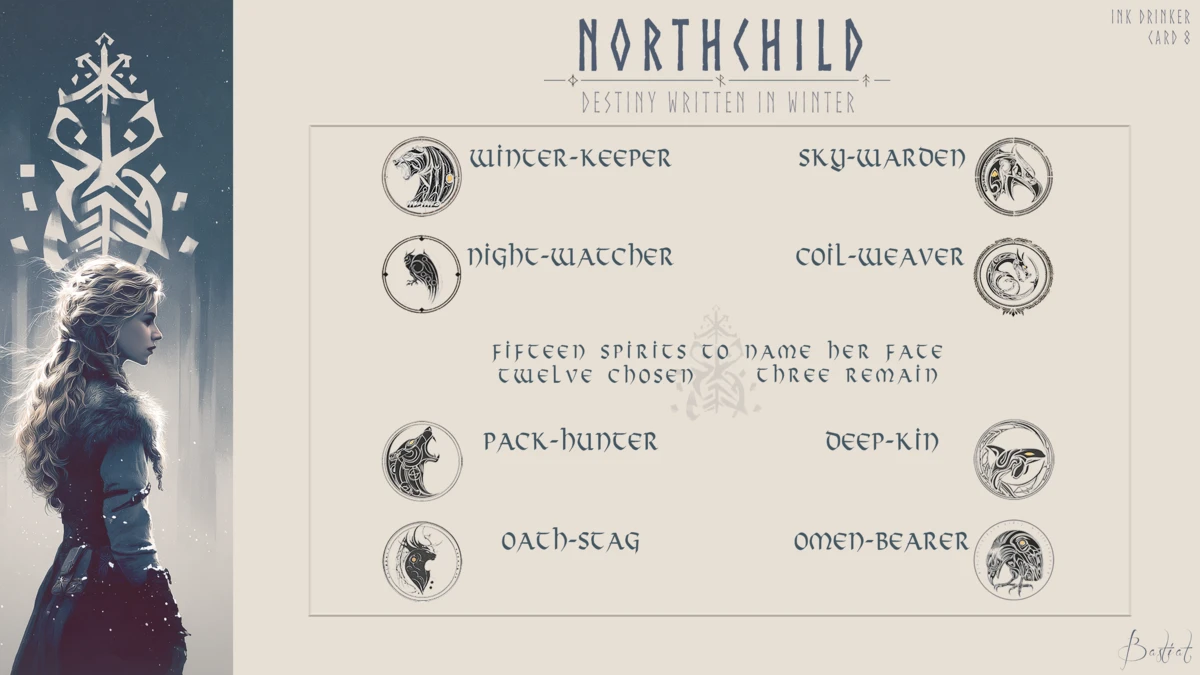
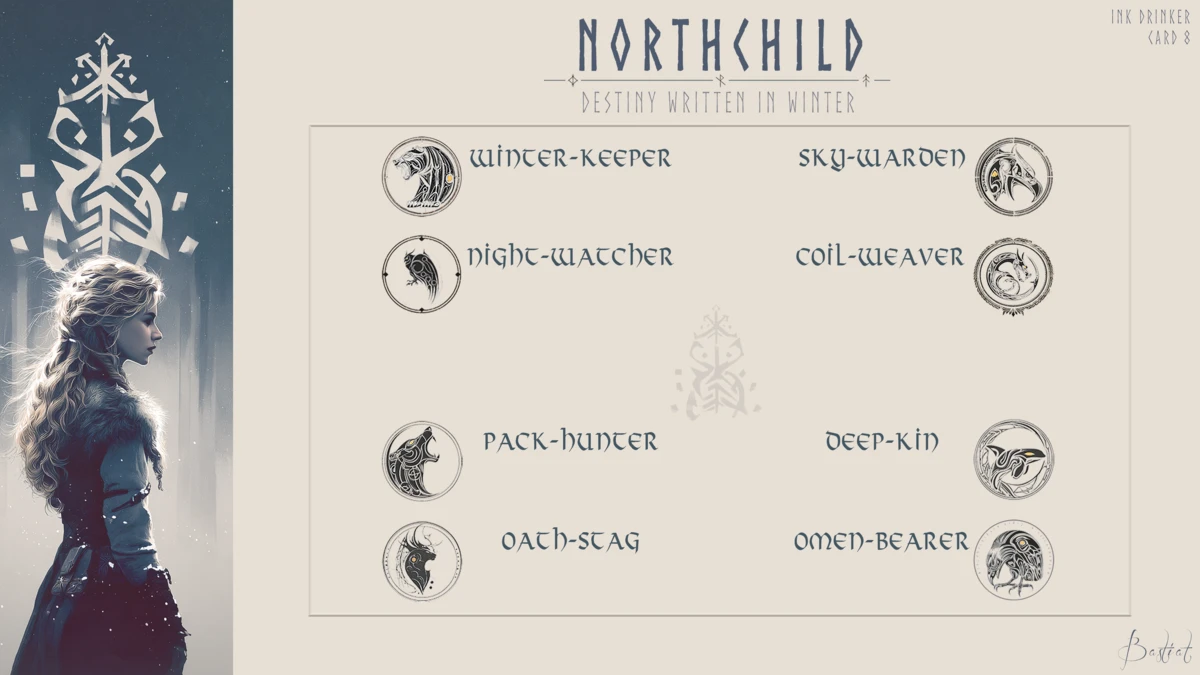
2.0 Both Screen Mechanics Operational

Changed region(s): [[0.4008, 0.4978, 0.7708, 0.5911]]

diff --git a/app/page.tsx b/app/page.tsx
@@ -1,6 +1,6 @@
 "use client";
 
-import { useEffect, useMemo, useState } from "react";
+import { useMemo, useState } from "react";
 import {
   computeNorthchildResult,
   getResultImagePath,
@@ -9,15 +9,11 @@ import {
   type Animals
 } from "./lib/northchildMechanics";
 
+// Layout and logic constants
 const maxPerAnimal = 4;
 const maxTotal = 15;
-
-const runeFile: Record<AnimalKey, string> = {
-  wolf: "wolf", orca: "orca", serpent: "serpent", raven: "raven",
-  owl: "owl", eagle: "eagle", elk: "elk", bear: "bear",
-};
-
-const metaRuneFile = { hf: "highflame", gs: "gravesong" } as const;
+const animalOrder: AnimalKey[] = ["bear", "owl", "serpent", "eagle", "wolf", "orca", "elk", "raven"];
+const numberWords: Record<number, string> = { 0: "None", 1: "One", 2: "Two", 3: "Three", 4: "Four", 5: "Five", 6: "Six", 7: "Seven", 8: "Eight", 9: "Nine", 10: "Ten", 11: "Eleven", 12: "Twelve", 13: "Thirteen", 14: "Fourteen", 15: "Fifteen" };
 
 const layout: Record<AnimalKey, { x: number; y: number }> = {
   wolf: { x: 47.6, y: 69.3 }, raven: { x: 73.5, y: 84.2 }, orca: { x: 73.4, y: 69.5 },
@@ -25,147 +21,125 @@ const layout: Record<AnimalKey, { x: number; y: number }> = {
   owl: { x: 47.6, y: 42.1 }, bear: { x: 47.6, y: 27.5 },
 };
 
-const HF_POS = [ { x: 93.6, y: 22.6 }, { x: 96.1, y: 28.0 }, { x: 97.6, y: 34.0 }, { x: 96.2, y: 39.4 }, { x: 93.7, y: 44.4 } ];
-const GS_POS = [ { x: 86.1, y: 67.1 }, { x: 83.6, y: 72.6 }, { x: 82.2, y: 78.2 }, { x: 83.7, y: 83.9 }, { x: 86.1, y: 89.0 } ];
+// Individually sized and positioned augmentation pips
+const HF_POS = [
+  { x: 32, y: 76.3, size: 34 },
+  { x: 26.95, y: 68.9, size: 40 },
+  { x: 23.71, y: 58.8, size: 46 },
+  { x: 26.5, y: 49.3, size: 56 },
+  { x: 31.25, y: 39.2, size: 80 },
+];
 
-function Pip({ active, rune, size = 30 }: { active: boolean; rune: string; size?: number }) {
+const GS_POS = [
+  { x: 86.8, y: 39.2, size: 34 },
+  { x: 91.25, y: 45.65, size: 40 },
+  { x: 93.96, y: 56.05, size: 46 },
+  { x: 91.75, y: 65.6, size: 56 },
+  { x: 88.1, y: 76.4, size: 80 },
+];
+
+function Pip({ active, rune, size = 28 }: { active: boolean; rune: string; size?: number }) {
   return (
     <div style={{ width: size, height: size, display: "flex", alignItems: "center", justifyContent: "center" }}>
-      <img
-        src={`/ui/runes/${rune}.svg`}
-        alt=""
-        style={{
-          width: "100%", height: "100%",
-          opacity: active ? 0.92 : 0.22,
-          filter: active ? "contrast(120%) brightness(65%)" : "contrast(70%) brightness(120%)",
-          transition: "all 0.15s ease",
-          pointerEvents: "none", userSelect: "none",
-        }}
-      />
+      <img src={`/ui/runes/${rune}.svg`} alt="" style={{ width: "100%", height: "100%", opacity: active ? 0.92 : 0.32, filter: active ? "contrast(120%) brightness(65%)" : "contrast(70%) brightness(120%)", transition: "all 0.15s ease", pointerEvents: "none" }} />
     </div>
   );
 }
 
 export default function Home() {
   const [step, setStep] = useState<1 | 2>(1);
-  const [animals, setAnimals] = useState<Animals>({
-    wolf: 0, orca: 0, serpent: 0, raven: 0, owl: 0, eagle: 0, elk: 0, bear: 0,
-  });
+  const [animals, setAnimals] = useState<Animals>({ wolf: 0, orca: 0, serpent: 0, raven: 0, owl: 0, eagle: 0, elk: 0, bear: 0 });
   const [hfCount, setHfCount] = useState(0);
   const [gsCount, setGsCount] = useState(0);
-  const [isSealed, setIsSealed] = useState(false);
-  const [computedResult, setComputedResult] = useState<NorthchildResult | null>(null);
-  const [resultImgReady, setResultImgReady] = useState(false);
   const [fadePhase, setFadePhase] = useState<"none" | "toBlack" | "showResult">("none");
+  const [computedResult, setComputedResult] = useState<NorthchildResult | null>(null);
 
   const totalAnimalPips = useMemo(() => Object.values(animals).reduce((a, b) => a + b, 0), [animals]);
-  const isAnimalQuotaMet = totalAnimalPips === 15;
+  const toWord = (n: number) => numberWords[n] ?? String(n);
 
-  const increment = (key: AnimalKey) => {
-    if (step !== 1 || totalAnimalPips >= 15 || animals[key] >= 4) return;
-    setAnimals((prev) => ({ ...prev, [key]: prev[key] + 1 }));
-  };
+  const increment = (key: AnimalKey) => { if (step === 1 && totalAnimalPips < 15 && animals[key] < 4) setAnimals(prev => ({ ...prev, [key]: prev[key] + 1 })); };
+  const decrement = (key: AnimalKey) => { if (step === 1 && animals[key] > 0) setAnimals(prev => ({ ...prev, [key]: prev[key] - 1 })); };
 
-  const decrement = (key: AnimalKey) => {
-    if (step !== 1 || animals[key] <= 0) return;
-    setAnimals((prev) => ({ ...prev, [key]: prev[key] - 1 }));
+  const handleStepTransition = () => {
+    if (totalAnimalPips !== 15) return;
+    setFadePhase("toBlack");
+    setTimeout(() => {
+      setStep(2);
+      setTimeout(() => { setFadePhase("none"); }, 100);
+    }, 2200);
   };
 
   const sealFate = () => {
-    if (isSealed) return;
     const result = computeNorthchildResult(animals, hfCount, gsCount);
     setComputedResult(result);
-    setIsSealed(true);
     setFadePhase("toBlack");
-
-    const src = getResultImagePath(result.winner.id, result.variant);
-    const img = new Image();
-    img.src = src;
-    img.onload = () => {
-      setTimeout(() => {
-        setResultImgReady(true);
-        setFadePhase("showResult");
-      }, 2700);
-    };
+    setTimeout(() => { setFadePhase("showResult"); }, 2500);
   };
 
-  const renderRow = (key: AnimalKey) => {
-    const pos = layout[key];
-    return (
+  const renderMetaStack = (kind: "hf" | "gs") => {
+    const coords = kind === "hf" ? HF_POS : GS_POS;
+    const count = kind === "hf" ? hfCount : gsCount;
+    const setCount = kind === "hf" ? setHfCount : setGsCount;
+    const rune = kind === "hf" ? "highflame" : "gravesong";
+
+    return coords.map((p, i) => (
       <div
-        key={key}
-        onClick={() => increment(key)}
-        onContextMenu={(e) => { e.preventDefault(); decrement(key); }}
-        style={{
-          position: "absolute", top: `${pos.y}%`, left: `${pos.x}%`,
-          transform: "translate(-50%, -50%)", display: "flex", gap: 14.2,
-          cursor: step === 1 ? "pointer" : "default", zIndex: 2,
-        }}
+        key={`${kind}-${i}`}
+        onClick={() => setCount(i + 1)}
+        onContextMenu={(e) => { e.preventDefault(); setCount(0); }}
+        style={{ position: "absolute", left: `${p.x}%`, top: `${p.y}%`, transform: "translate(-50%, -50%)", cursor: "pointer", zIndex: 2 }}
       >
-        {[0, 1, 2, 3].map((i) => <Pip key={i} active={i < animals[key]} rune={runeFile[key]} />)}
+        <Pip active={i < count} rune={rune} size={p.size} />
       </div>
-    );
+    ));
   };
 
   return (
-    <div style={{ minHeight: "100vh", display: "grid", placeItems: "center", backgroundColor: "#05070a" }}>
+    <div style={{ minHeight: "100vh", display: "grid", placeItems: "center", backgroundColor: "#05070a", userSelect: "none", WebkitUserSelect: "none" }}>
       <div style={{ position: "relative", width: "1200px", aspectRatio: "16 / 9" }}>
         
-        {/* Background Swaps based on Step */}
-        <img
-          src={step === 1 ? "/ui/northchild1.webp" : "/ui/northchild2.webp"}
-          alt=""
-          style={{ position: "absolute", inset: 0, width: "100%", height: "100%", objectFit: "contain", zIndex: 0 }}
-        />
+        <img src={step === 1 ? "/ui/northchild1.webp" : "/ui/northchild2.webp"} alt="" style={{ position: "absolute", inset: 0, width: "100%", height: "100%", zIndex: 0 }} />
 
         {step === 1 && (
           <>
-            {Object.keys(layout).map((k) => renderRow(k as AnimalKey))}
-            <button
-              onClick={() => setStep(2)}
-              style={{
-                position: "absolute", left: "59.7%", top: "91.8%", transform: "translateX(-50%)",
-                opacity: isAnimalQuotaMet ? 1 : 0.2, pointerEvents: isAnimalQuotaMet ? "auto" : "none",
-                transition: "opacity 0.8s ease", background: "none", border: "none", cursor: "pointer", zIndex: 3
-              }}
-            >
-              <img src="/ui/button-invoke.png" alt="And thus the North shall know its child" style={{ width: 418 }} />
+            {animalOrder.map((k) => (
+              <div key={k} onClick={() => increment(k)} onContextMenu={(e) => { e.preventDefault(); decrement(k); }} style={{ position: "absolute", top: `${layout[k].y}%`, left: `${layout[k].x}%`, transform: "translate(-50%, -50%)", display: "flex", gap: 12, cursor: "pointer", zIndex: 2 }}>
+                {[0, 1, 2, 3].map((i) => <Pip key={i} active={i < animals[k]} rune={k} />)}
+              </div>
+            ))}
+
+            <div style={{ position: "absolute", left: "60%", top: "53.9%", transform: "translate(-50%, -50%)", fontFamily: "var(--font-viking)", fontSize: 16, letterSpacing: "0.075em", color: "#415662", textAlign: "center", lineHeight: 1.2, userSelect: "none", pointerEvents: "none", zIndex: 2 }}>
+              <div>Fifteen spirits to name her fate</div>
+              <div style={{ marginTop: 6 }}>
+                {toWord(totalAnimalPips)} chosen&nbsp;&nbsp;&nbsp;
+                {toWord(15 - totalAnimalPips)} remain
+              </div>
+            </div>
+
+            <button onClick={handleStepTransition} style={{ position: "absolute", left: "60%", top: "91.8%", transform: "translateX(-50%)", opacity: totalAnimalPips === 15 ? 1 : 0.25, transition: "opacity 0.5s ease", background: "none", border: "none", cursor: "pointer", zIndex: 3 }}>
+              <img src="/ui/button-invoke.png" alt="Invoke" style={{ width: 418 }} />
             </button>
           </>
         )}
 
         {step === 2 && (
           <>
-            {/* Meta Stacks for HF/GS */}
-            {HF_POS.map((p, i) => (
-              <div key={i} onClick={() => setHfCount(i + 1)} style={{ position: "absolute", left: `${p.x}%`, top: `${p.y}%`, transform: "translate(-50%, -50%)", zIndex: 2, cursor: "pointer" }}>
-                <Pip active={i < hfCount} rune="highflame" />
-              </div>
-            ))}
-            {GS_POS.map((p, i) => (
-              <div key={i} onClick={() => setGsCount(i + 1)} style={{ position: "absolute", left: `${p.x}%`, top: `${p.y}%`, transform: "translate(-50%, -50%)", zIndex: 2, cursor: "pointer" }}>
-                <Pip active={i < gsCount} rune="gravesong" />
-              </div>
-            ))}
-
-            <button
-              onClick={sealFate}
-              style={{
-                position: "absolute", left: "50%", top: "95.6%", transform: "translateX(-50%)",
-                background: "none", border: "none", cursor: "pointer", zIndex: 3
-              }}
-            >
-              <img src="/ui/hfgsbutton.webp" alt="Submit" style={{ width: 418 }} />
+            {renderMetaStack("hf")}
+            {renderMetaStack("gs")}
+            <button onClick={sealFate} style={{ position: "absolute", left: "60.2%", top: "90.1%", transform: "translateX(-50%)", background: "none", border: "none", cursor: "pointer", zIndex: 3 }}>
+              <img src="/ui/hfgsbutton.webp" alt="Submit" style={{ width: 62 }} />
             </button>
           </>
         )}
 
-        {/* Fade/Result Overlay (Keep original overlay logic) */}
-        <div style={{ position: "fixed", inset: 0, background: "black", opacity: fadePhase === "none" ? 0 : 1, transition: "opacity 2200ms ease", zIndex: 50, pointerEvents: fadePhase === "none" ? "none" : "auto", display: "flex", alignItems: "center", justifyContent: "center" }}>
-           {computedResult && resultImgReady && (
-             <img src={getResultImagePath(computedResult.winner.id, computedResult.variant)} alt="Result" style={{ maxWidth: "92vw", maxHeight: "85vh", borderRadius: 12 }} />
-           )}
+        <div style={{ position: "fixed", inset: 0, background: "black", opacity: fadePhase === "toBlack" || fadePhase === "showResult" ? 1 : 0, transition: "opacity 2200ms ease", zIndex: 50, pointerEvents: fadePhase === "none" ? "none" : "auto", display: "flex", alignItems: "center", justifyContent: "center" }}>
+          {computedResult && (
+            <div style={{ opacity: fadePhase === "showResult" ? 1 : 0, transition: "opacity 2000ms ease" }}>
+               <img src={getResultImagePath(computedResult.winner.id, computedResult.variant)} alt="Result" style={{ maxWidth: "92vw", maxHeight: "85vh", borderRadius: 12 }} />
+            </div>
+          )}
         </div>
+
       </div>
     </div>
   );
